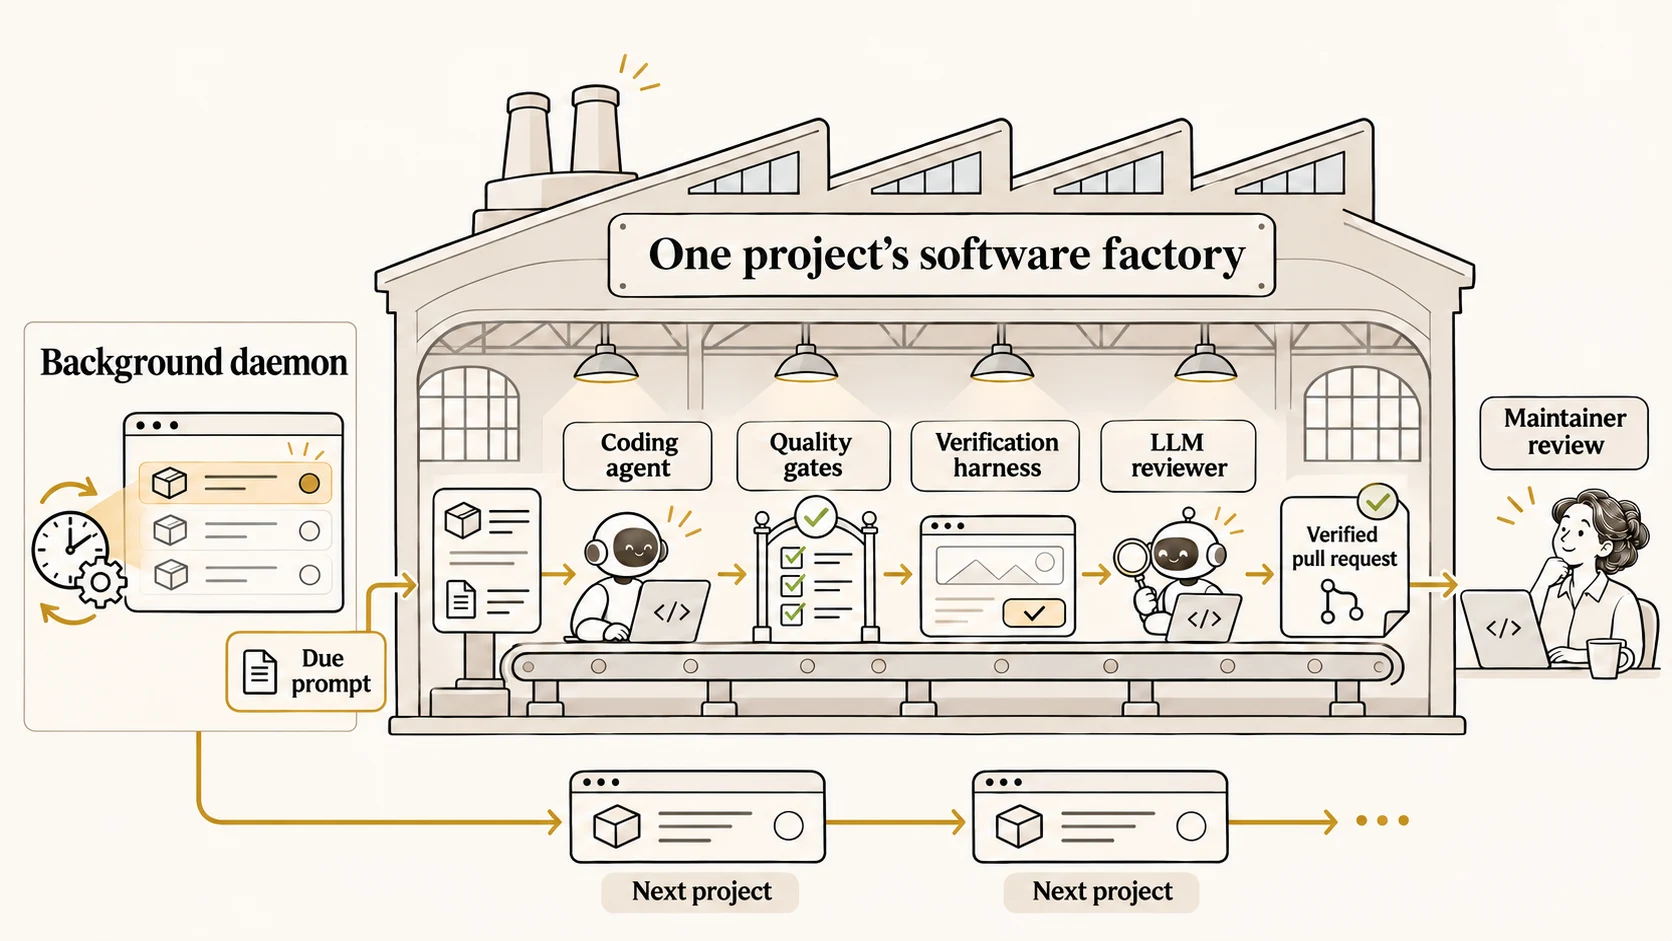
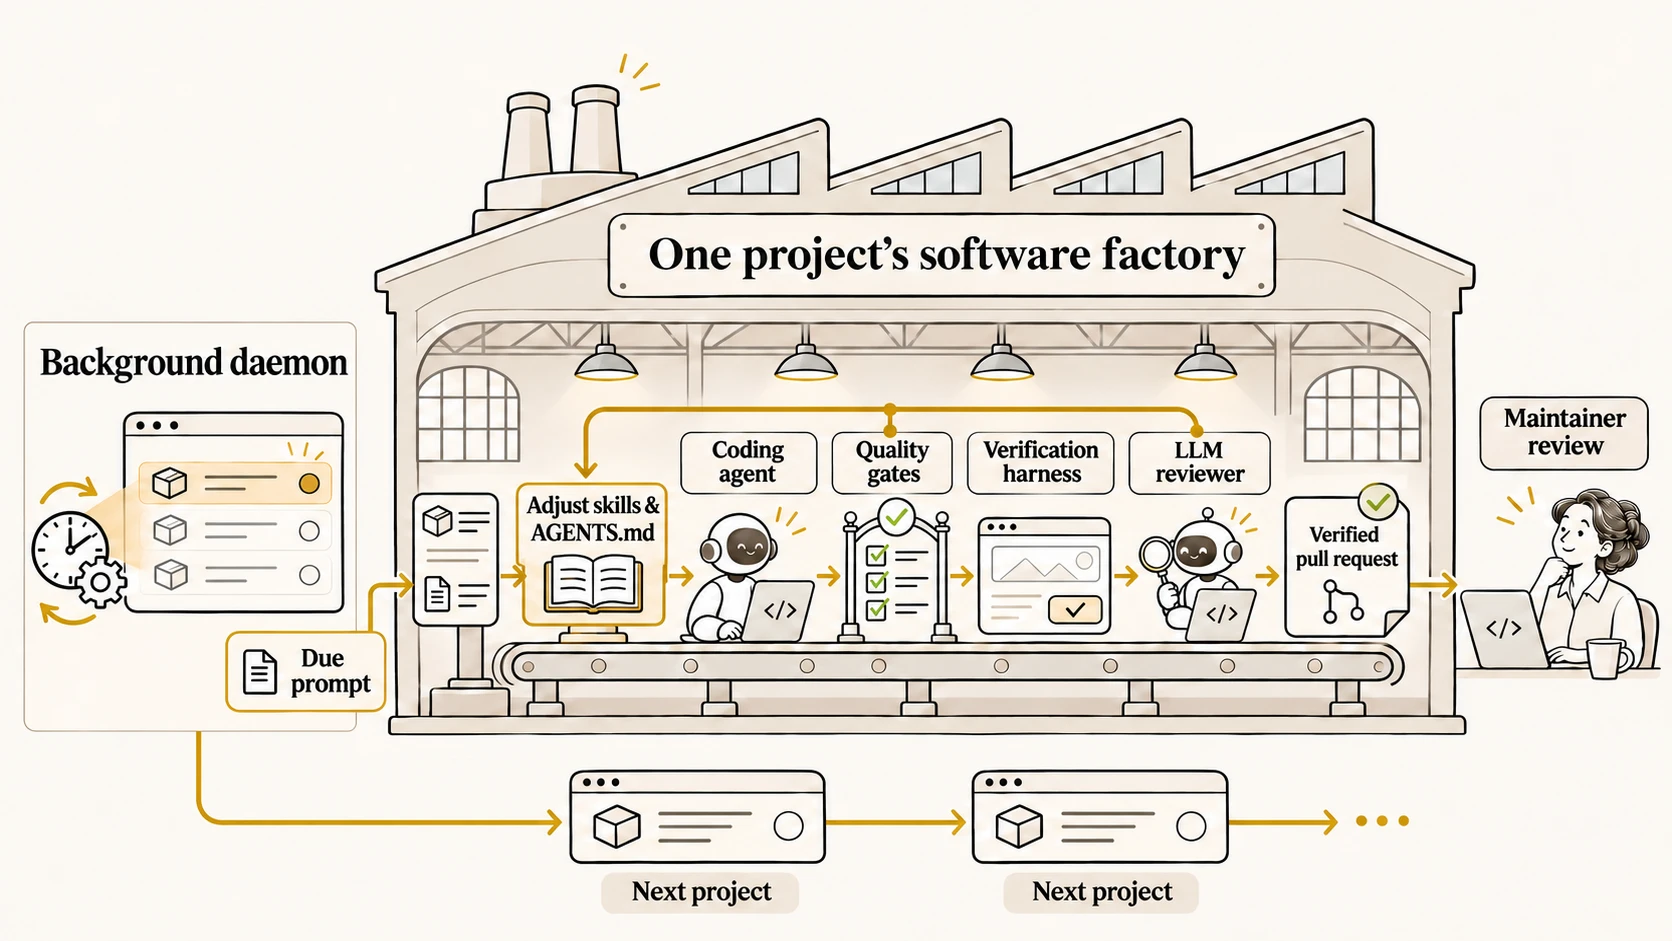
feat(illustrations): add artefact correction feedback loops (#56)
## Summary

- Add a feedback step to both factory illustrations so findings can lead
to corrections in skills and `AGENTS.md`.
- Update alt text, speaker notes, and the illustration record to
describe the loop.

## Validation

- `just render`
- `git diff --check`

## Drive-by cleanup

- Sync the current illustration description and prompt with the new
component.

diff --git a/media/README.md b/media/README.md
@@ -148,11 +148,12 @@ implying the reviewer is the coding agent.
 
 The closing example shows a feature request flowing through coding, a pull
 request with UI screenshots and a red-and-green diff, automated quality gates,
-an independent review loop, and agent-led merge. The magnified checklist names
-17 checks included in `make qa`, set in smaller type to retain a light, spacious
-composition. An ellipsis indicates that the repository's checks continue. The
-slide notes distinguish these gates from the wider CI workflow and explain
-that checks provide evidence for human judgement.
+an independent review loop, and agent-led merge. Findings can lead to an
+adjustment of skills and `AGENTS.md` before the next coding attempt. The
+magnified checklist names 17 checks included in `make qa`, set in smaller type
+to retain a light, spacious composition. An ellipsis indicates that the
+repository's checks continue. The slide notes distinguish these gates from the
+wider CI workflow and explain that checks provide evidence for human judgement.
 
 The inset labels are File naming, Backend format, Config format, Markdown
 format, Backend lint, Markdown lint, Spell check, Workflow lint, Link check,
@@ -600,11 +601,12 @@ The illustration makes the project-level software factory visible as a
 building and conveyor: a coding agent works on a repository-owned prompt,
 quality gates and a verification harness check the change, and an independent
 LLM reviewer inspects it before a pull request reaches the maintainer. A
-background daemon selects one due prompt and activates this reliable project
-factory; other projects wait for their turn.
+feedback loop returns to an artefact-adjustment station for skills and
+`AGENTS.md` when those instructions lead to mistakes. A background daemon
+selects one due prompt and activates this project factory; other projects wait
+for their turn.
 
 ```text
-Use case: infographic-diagram. Asset type: landscape 16:9 slide illustration for a RevealJS presentation. Use `agent-autonomy.webp` as the canvas palette and linework reference and `constituents-of-success.webp` as the adjacent-slide typography and illustration reference. Depict a software factory inside one project and show how a higher-level giga-factory daemon activates that proven factory across many repositories. The factory must be unmistakable at first glance: draw one large, elegant, literal factory building with a roof, walls, visible factory floor, and conveyor belt, not merely a row of workflow boxes or a generic pipeline. At left, an unattended background daemon with a clock-and-gear process symbol scans a portfolio and automatically selects a repository-owned prompt that is due; show no person operating this schedule. A gold route carries that prompt into the large central factory. Inside the building, show the repeatable project-level factory as workstations: repository instructions and prompt enter; a coding-agent robot builds the change; quality gates and a verification harness check it; an independent reviewer robot inspects it; a pull-request document exits toward a human maintainer. Keep these stations and arrows visibly inside the bounded factory building. Below or beside it, show two smaller repository icons waiting their turns, illustrating the daemon repeating the run across projects. Show one active run at a time. Emphasize that the strong, well-checked output from the project factory is what makes higher-level scheduled automation useful. Use a restrained editorial pen-and-ink style, bright ivory #fdfaf3 canvas, very pale warm-stone #e9e5db factory surfaces, near-black linework and text, subtle gold hairlines and arrows, elegant serif headings, clean sans labels, and small friendly robots and a human maintainer. Keep all large backgrounds light and legible at 880 pixels wide. Exact sparse labels: “Background daemon”, “Due prompt”, “One project’s software factory”, “Coding agent”, “Quality gates”, “Verification harness”, “LLM reviewer”, “Verified pull request”, “Maintainer review”, “Next project”. Do not repeat the slide title or subtitle. Avoid a human operating the daemon, abstract boxes alone, a workflow-only illustration, generic server racks, dark backgrounds, saturated fills, green checkmarks, tiny paragraphs, gradients, glossy 3D, heavy shadows, logos, watermarks, extra captions, or implying that the daemon codes, checks, reviews, or merges changes.
+Use case: infographic-diagram. Asset type: landscape 16:9 slide illustration for a RevealJS presentation. Use `agent-autonomy.webp` as the canvas palette and linework reference and `constituents-of-success.webp` as the adjacent-slide typography and illustration reference. Depict a software factory inside one project and show how a higher-level giga-factory daemon activates that proven factory across many repositories. The factory must be unmistakable at first glance: draw one large, elegant, literal factory building with a roof, walls, visible factory floor, and conveyor belt, not merely a row of workflow boxes or a generic pipeline. At left, an unattended background daemon with a clock-and-gear process symbol scans a portfolio and automatically selects a repository-owned prompt that is due; show no person operating this schedule. A gold route carries that prompt into the large central factory. Inside the building, show the repeatable project-level factory as workstations: repository instructions and prompt enter; a clearly labelled “Adjust skills & AGENTS.md” station feeds the coding-agent robot; quality gates and a verification harness check it; an independent reviewer robot inspects it; a pull-request document exits toward a human maintainer. Draw a gold feedback arrow from quality gates or the reviewer back to the artefact-adjustment station, then a short arrow from that station into the coding flow. Keep these stations and arrows visibly inside the bounded factory building. Below or beside it, show two smaller repository icons waiting their turns, illustrating the daemon repeating the run across projects. Show one active run at a time. Emphasize that the strong, well-checked output from the project factory is what makes higher-level scheduled automation useful. Use a restrained editorial pen-and-ink style, bright ivory #fdfaf3 canvas, very pale warm-stone #e9e5db factory surfaces, near-black linework and text, subtle gold hairlines and arrows, elegant serif headings, clean sans labels, and small friendly robots and a human maintainer. Keep all large backgrounds light and legible at 880 pixels wide. Exact sparse labels: “Background daemon”, “Due prompt”, “One project’s software factory”, “Adjust skills & AGENTS.md”, “Coding agent”, “Quality gates”, “Verification harness”, “LLM reviewer”, “Verified pull request”, “Maintainer review”, “Next project”. Do not repeat the slide title or subtitle. Avoid a human operating the daemon, abstract boxes alone, a workflow-only illustration, generic server racks, dark backgrounds, saturated fills, green checkmarks, tiny paragraphs, gradients, glossy 3D, heavy shadows, logos, watermarks, extra captions, or implying that the daemon codes, checks, reviews, or merges changes.
 
-Final built-in image edit: replace the left-side human operator and laptop with an unattended background daemon symbol: a clock and gear automatically scan the repository rows and highlight the due prompt. Change the heading to “Background daemon”. Preserve the software factory, workstations, conveyor, pull request, maintainer review, other projects, arrows, colours, and all other wording.
 ```
